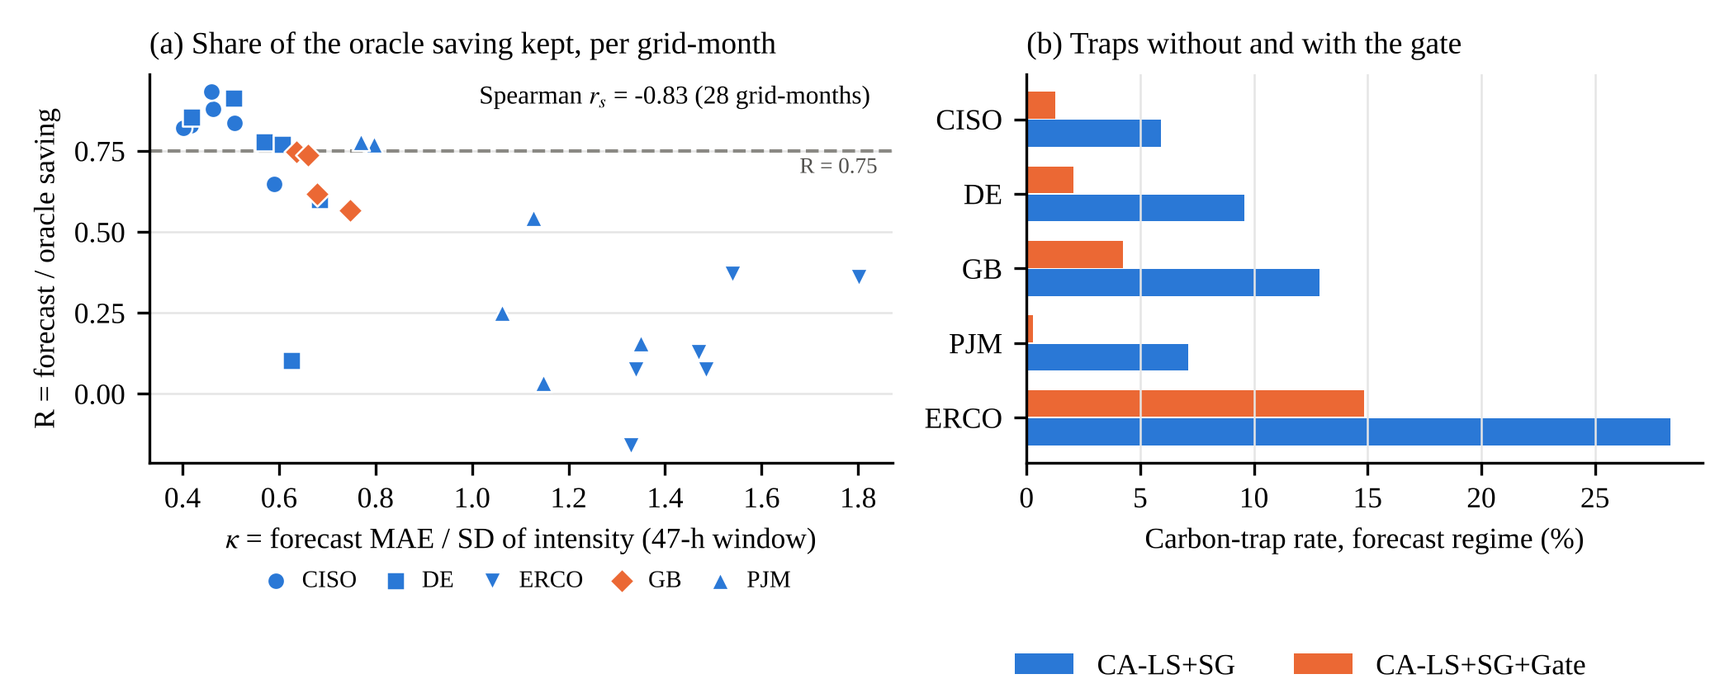
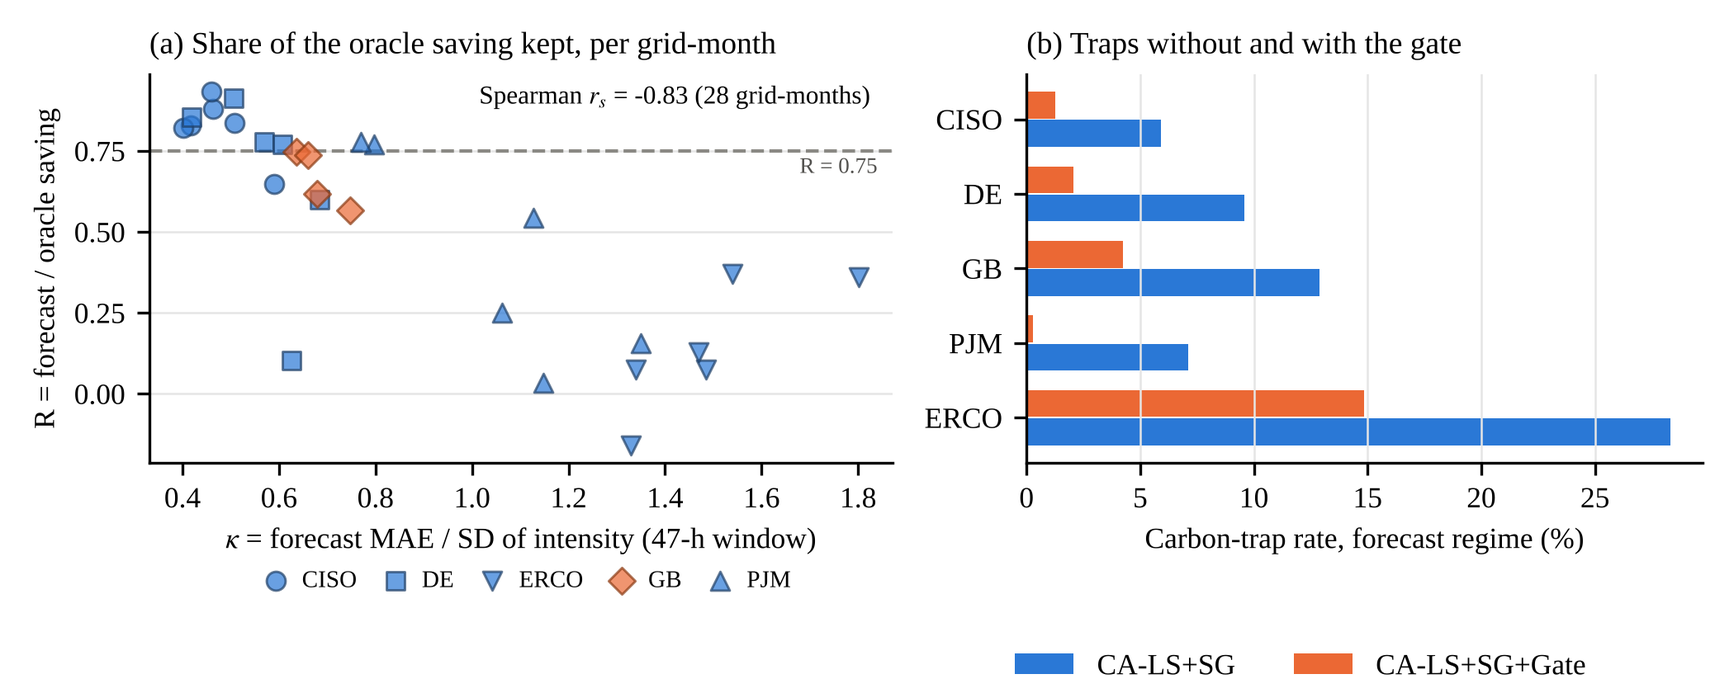
Minor review items: notation, units, CA-List details, pooling scope, Holm threshold, budget formula, Fig 8 overlap, references
Claude-Session: https://claude.ai/code/session_01NKcDFEPRSqVT7T48a7QW9h

diff --git a/manuscript/v2_content.js b/manuscript/v2_content.js
@@ -51,11 +51,11 @@ const t4 = smallTable([
   ["GB", "H2 traps (CA-LS)", "Lower bound > 2% at every f", "7.5% [5.5, 9.7] at f = 1.2; 13.2–15.9% at f ≥ 1.5", "Supported", "Holds"],
   ["GB", "H3 synthetic overstates saving", "Lower bound of difference > 0", "+0.68 pp [−0.09, 1.48]", "Not supported", "—"],
   ["GB", "H4 gate", "Trap difference < 0; retention ≥ 0.5", "−8.65 pp [−10.81, −6.62]; 0.84 [0.77, 0.92]", "Supported", "Holds"],
-  ["GB", "H5 CA-List / CaWoSched", "H1 and H2 criteria", "R = 0.68 [0.61, 0.74] / 0.73 [0.67, 0.78]; traps 6.5% [4.7, 8.5] / 7.6% [5.3, 9.9] at f = 1.2, 12.6–16.0% / 12.0–14.0% at f ≥ 1.5", "Met / H2 only", "CA-List: not by week; not with Holm"],
+  ["GB", "H5 CA-List / CaWoSched", "H1 and H2 criteria", "R = 0.68 [0.61, 0.74] / 0.73 [0.67, 0.78]; traps 6.5% [4.7, 8.5] / 7.6% [5.3, 9.9] at f = 1.2, 12.6–16.0% / 12.0–14.0% at f ≥ 1.5", "Supported / H2 only", "CA-List: not by week; not with Holm"],
   ["4 grids", "E1 relative loss", "Upper bound of R < 0.75", "R = 0.66 [0.60, 0.72]", "Supported", "Holds"],
   ["4 grids", "E2 traps", "Lower bound > 2% at every f", "6.4% [4.8, 8.2] to 16.4%", "Supported", "Holds"],
   ["4 grids", "E3 gate", "Trap difference < 0; retention ≥ 0.5", "−8.1 pp [−9.8, −6.5]; 0.87 [0.82, 0.93]", "Supported", "Holds"],
-  ["4 grids", "E4 misses vs HEFT; gate", "Lower bound > 10 pp at every f; gated − ungated < 0", "+27.6 to +43.4 pp; −21.5 pp [−23.1, −19.8]", "Supported", "Holds"],
+  ["4 grids", "E4a misses vs HEFT; E4b gate", "E4a: lower bound > 10 pp at every f; E4b: gated − ungated < 0", "+27.6 to +43.4 pp; −21.5 pp [−23.1, −19.8]", "Supported", "Holds"],
   ["Hetero.", "G1 relative loss", "Upper bound of R < 0.75", "R = 0.85 [0.80, 0.90]", "Not supported", "—"],
   ["Hetero.", "G2 traps", "Lower bound > 2% at every f", "1.6% [0.6, 2.8] at f = 1.2; 4.3–5.4% at f ≥ 1.5", "Not supported", "—"],
   ["Hetero.", "G3 gate", "Trap difference < 0; retention ≥ 0.5", "−2.2 pp [−3.8, −1.0]; 1.06 [1.02, 1.09]", "Supported", "Holds (Holm p < 0.001)"],
@@ -68,7 +68,7 @@ const tn = smallTable([
   ["G = (V, E); dᵢ", "Workflow DAG; nominal duration of task i (min)"],
   ["P; p", "Number of machines; busy power per machine (kW)"],
   ["M; D; f", "HEFT makespan; deadline D = round(f·M); deadline factor"],
-  ["t₀; s; s^H", "Submission time; a plan (start times); the HEFT plan"],
+  ["t₀; s; s^{H}", "Submission time; a plan (start times); the HEFT plan"],
   ["I(t); Î(t)", "Realised carbon intensity; intensity used for planning"],
   ["F; A", "Forecast and realised intensity of a window; F̄, Ā: means over a task's duration"],
   ["C(s); S(s)", "Realised emissions of plan s; saving relative to HEFT"],
@@ -144,11 +144,11 @@ const model = [
   H2("3.1 Workflows, platform and deadlines"),
   P("A workflow is a DAG G = (V, E) of tasks with precedence constraints; task i has a duration dᵢ in minutes. In the main study the platform is a dedicated cluster of P = 8 identical machines. Each runs one task at a time and draws a constant busy power p = 0.2 kW; data-transfer time is ignored. On this platform HEFT reduces to list scheduling by bottom level, which we still call HEFT for consistency with the literature. Section 5.5 replaces the platform with a heterogeneous one with idle power. A workflow is submitted at time t₀ and must finish within a deadline D = round(f · M) measured from t₀, where M is the HEFT makespan and f ∈ {1.2, 1.5, 2.0, 3.0} is the deadline factor [[cite: abrishami_deadline-constrained_2013]] [[cite: rodriguez_deadline_2014]]. A plan assigns a start time sᵢ to every task, at one-minute resolution. It is feasible if precedence holds, at most P tasks run at once and every task finishes by D."),
   H2("3.2 Carbon cost, saving and traps"),
-  P("Let I(t) be the realised average carbon intensity (gCO₂/kWh), published in 30-minute windows. The operational emissions of a plan s, with p in kW and time in hours, are"),
-  MEQ([mr("C(s)=p"), msum([mr("i∈V")], [integ([sub([mr("s")], [mr("i")])], [sub([mr("s")], [mr("i")]), mr("+"), sub([mr("d")], [mr("i")])], [mr("I"), rb([sub([mr("t")], [mr("0")]), mr("+t")]), mr(" dt")])])], 1),
-  P("On the homogeneous platform idle power is not attributed; Section 7.4 discusses this assumption. The saving of a plan is measured against the HEFT plan s^H on the same instance and submission, always with the realised intensity:"),
+  P("Let I(t) be the realised average carbon intensity (gCO₂/kWh), published in 30-minute windows. The operational emissions of a plan s, with p in kW, I in gCO₂/kWh and t in minutes (hence the factor 1/60), are"),
+  MEQ([mr("C(s)="), frac([mr("p")], [mr("60")]), msum([mr("i∈V")], [integ([sub([mr("s")], [mr("i")])], [sub([mr("s")], [mr("i")]), mr("+"), sub([mr("d")], [mr("i")])], [mr("I"), rb([sub([mr("t")], [mr("0")]), mr("+t")]), mr(" dt")])])], 1),
+  P("On the homogeneous platform idle power is not attributed; Section 7.4 discusses this assumption. The saving of a plan is measured against the HEFT plan s^{H} on the same instance and submission, always with the realised intensity:"),
   MEQ([mr("S(s)=1−"), frac([mr("C(s)")], [mr("C("), sup([mr("s")], [mr("H")]), mr(")")])], 2),
-  P("A run is a **carbon trap** if C(s) > 1.01 · C(s^H). The 1% margin excludes ties and rounding; we also report thresholds of 0%, 2% and 5% and the expected excess emission. Traps matter even when the mean saving is positive: a carbon-aware service that makes some jobs dirtier than the carbon-agnostic default breaks its promise to the users of those jobs. We therefore treat the trap rate as a measure of tail risk alongside the mean saving. Fig. 2 illustrates how a trap arises. The **relative loss** of a scheduler is"),
+  P("A run is a **carbon trap** if C(s) > 1.01 · C(s^{H}). The 1% margin excludes ties and rounding; we also report thresholds of 0%, 2% and 5% and the expected excess emission. Traps matter even when the mean saving is positive: a carbon-aware service that makes some jobs dirtier than the carbon-agnostic default breaks its promise to the users of those jobs. We therefore treat the trap rate as a measure of tail risk alongside the mean saving. Fig. 2 illustrates how a trap arises. The **relative loss** of a scheduler is"),
   MEQ([mr("R="), frac([mr("E"), sb([mr("S | forecast, f≥1.5")])], [mr("E"), sb([mr("S | oracle, f≥1.5")])])], 3),
   P("the share of the oracle saving that survives forecasts, computed as a ratio of means over runs with f ≥ 1.5 (at f = 1.2 the savings are small and the ratio unstable). We also report R per f, the absolute loss in percentage points and an emission-weighted ratio."),
   ...figure("fig1_concept.png", 600, 242,
@@ -183,8 +183,8 @@ const scheds = [
   H1("4. Schedulers and the difference-error gate"),
   P("All schedulers share one simulator, so differences between them come from their decisions."),
   H2("4.1 Reference and carbon-aware schedulers"),
-  P("**HEFT** orders tasks by decreasing bottom level and starts each as early as precedence and capacity allow [[cite: topcuoglu_performance-effective_2002]]. **Shift** keeps the HEFT plan and moves it as a whole by the offset δ ∈ [0, D − M] (one-minute steps) with the lowest planned cost; δ = 0 wins ties. **CA-List** visits tasks in HEFT order; for each it finds the earliest feasible start a and the latest start LSTᵢ = D − blᵢ, where blᵢ is the bottom level including dᵢ. Among the starts in [a, LSTᵢ] at which a machine is free, it takes the one with the lowest planned cost, and defers only if that start is strictly cheaper than a. Because LST ignores capacity, a plan can occasionally overrun D. CA-List is then re-run with a tighter internal deadline found by bisection over [M, D] (six steps), and HEFT is used if no feasible plan is found. **CA-LS** adds 2|V| local-search moves to the CA-List plan; each moves a random task to the cheapest start allowed by its predecessors, successors, capacity and D, earlier or later than its current start. CA-LS is the primary scheduler."),
-  P("We also run the official code of the two closest published schedulers without algorithmic changes: **CaWoSched** [[cite: schweisgut_carbon-aware_2025]], with the HEFT mapping and the better of its slackR-LS and pressR-LS variants, and **CWM** [[cite: schweisgut_carbon-aware_2026]], local-search variant. Both minimise brown energy above a green power budget. We map intensity to a budget by inverting and rescaling it over the windows up to D, from the total idle power in the dirtiest window to a fraction frac of the dynamic power in the cleanest. We used frac = 1.0, which gave both tools their best oracle saving on development data; the original authors use 0.2–0.4, which we also test (Section 6.7). We report these tools on emissions and on their native objective, the brown energy B(s) = Σₜ max(0, power(s, t) − budget(t)) computed with the budget derived from the realised intensity. Adapter details are in Appendix A."),
+  P("**HEFT** orders tasks by decreasing bottom level and starts each as early as precedence and capacity allow [[cite: topcuoglu_performance-effective_2002]]. **Shift** keeps the HEFT plan and moves it as a whole by the offset δ ∈ [0, D − M] (one-minute steps) with the lowest planned cost; δ = 0 wins ties. **CA-List** visits tasks in HEFT order; for each it finds the earliest feasible start a and the latest start LSTᵢ = D − blᵢ, where blᵢ is the bottom level including dᵢ. Among the starts in [a, LSTᵢ] at which a machine is free, it takes the one with the lowest planned cost, and defers only if that start is strictly cheaper than a; if a > LSTᵢ the interval is empty and the task starts at a. Because LST ignores capacity, a plan can occasionally overrun D. CA-List is then re-run with a tighter internal deadline found by bisection over [M, D] (six steps); the bisection keeps the largest internal deadline whose plan meets D, not the cheapest plan, since list scheduling need not be monotone in the internal deadline. HEFT is used if no step yields a feasible plan. **CA-LS** adds 2|V| local-search moves to whatever plan CA-List returns, including the HEFT fallback; each moves a random task to the cheapest start allowed by its predecessors, successors, capacity and D, earlier or later than its current start. CA-LS is the primary scheduler."),
+  P("We also run the official code of the two closest published schedulers without algorithmic changes: **CaWoSched** [[cite: schweisgut_carbon-aware_2025]], with the HEFT mapping and the better of its slackR-LS and pressR-LS variants, and **CWM** [[cite: schweisgut_carbon-aware_2026]], local-search variant. Both minimise brown energy above a green power budget. We map intensity to a budget by a linear min–max inversion over the windows up to D, from the total idle power in the dirtiest window to the total idle power plus a fraction frac of the total dynamic power in the cleanest (Appendix A gives the formula). We used frac = 1.0, which gave both tools their best oracle saving on development data; the original authors use 0.2–0.4, which we also test (Section 6.7). We report these tools on emissions and on their native objective, the brown energy B(s) = Σₜ max(0, power(s, t) − budget(t)) Δt over one-minute steps t (Δt = 1 min, so B is in power-minutes), computed with the budget derived from the realised intensity and evaluated on the final, safeguarded plan. Adapter details are in Appendix A."),
   H2("4.2 HEFT safeguard"),
   P("Every carbon-aware scheduler is wrapped in the same safeguard: its plan is kept only if it is cheaper than the HEFT plan on the planning signal. Under the oracle this makes traps impossible, which we check. Under forecasts it cannot prevent traps, because it trusts the signal that misleads the scheduler. Traps under forecasts are therefore attributable to forecast error alone. Under the oracle the safeguard kept the HEFT plan in 24% of CA-LS runs (30% at f = 1.2, 14% at f = 3.0), where local search found no cheaper plan; these runs count as zero saving."),
   H2("4.3 The difference-error gate"),
@@ -221,7 +221,7 @@ const design = [
   H2("5.6 Robustness study"),
   P("The main results raise four further questions: whether re-planning on newer forecasts removes the loss, whether the deadline result depends on the executor, whether reserving slack helps, and whether simpler gates do as well. A fourth plan, sealed before any of its variants was run on the confirmatory data, answers them on seeds 10 and 11 of the main study (1,200 jobs). The questions are: (Q1) receding-horizon re-planning [[cite: zhang_exploring_2023]] every 2 h on the newest vintage, for CA-LS and Shift with and without the gate; (Q2) the reactive executor; (Q3) a slack reserve, planning CA-LS against D′ = M + ρ(D − M) with ρ ∈ {0.75, 0.5}; (Q4) alternative gates; (Q5) the empirical coverage of the gate; and (Q6) CaWoSched and CWM with the authors' budget band. The plan states in advance how each result will be read. Because the confirmatory data had been analysed before, we report these as robustness analyses, not confirmatory tests. After the first run we found a units error that kept the re-planning variants from seeing newer forecasts; it is logged with the plan, the affected variants were re-run, and only the corrected results are reported."),
   H2("5.7 Statistical analysis"),
-  P("Runs that share a submission time share a forecast and are correlated. The sealed analyses use a cluster bootstrap over submission times [[cite: cameron_bootstrap-based_2008]] (region × submission in the extensions; 2,000 resamples, fixed seed, percentile intervals). Because submissions on nearby days share weather regimes, we also report, post hoc, intervals from a bootstrap over calendar days and over ISO weeks, and Holm-adjusted one-sided p-values. The main study has 147 submission times, 78 days and 14 weeks. In the extension every cluster is crossed with the grid (region × submission, region × day, region × week), giving 236, 208 and 92 clusters; the extension data lie within one calendar year, as do the GB data. With 14 clusters the week bootstrap is coarse, and percentile cluster bootstraps with so few clusters can under-cover [[cite: cameron_bootstrap-based_2008]]; we therefore use it only as a sensitivity check, never for a verdict. A one-sided p-value is the share of bootstrap replicates on the null side of the sealed threshold, for example the share with R* ≥ 0.75 for H1. Composite hypotheses are intersection–union tests and take the largest p-value of their parts: H2 and E2 over the four deadline factors, H4 and E3 over the trap difference (null: ≥ 0) and the retained saving (null: < 0.5), and H5, separately for each scheduler, over its H1 part and the four f of its H2 part. Holm's step-down procedure at a one-sided family level of 0.025 is applied within the main study to m = 6 tests (H1, H2, H3, H4, H5 for CA-List and H5 for CaWoSched) within the extension to m = 4 (E1–E4; E4 over the four f of its miss gap and the gate's effect on misses), and within the platform study to m = 5 (G1–G5), whose 80 submissions fall on 76 region × days and 56 region × weeks. The post-hoc script draws its own resamples, so its submission-time intervals can differ from the sealed ones in the second decimal (for H1, [0.61, 0.74] against [0.62, 0.74]). Means are pooled over workflows, makespan targets and seeds."),
+  P("Runs that share a submission time share a forecast and are correlated. The sealed analyses use a cluster bootstrap over submission times [[cite: cameron_bootstrap-based_2008]] (region × submission in the extensions; 2,000 resamples, fixed seed, percentile intervals). Because submissions on nearby days share weather regimes, we also report, post hoc, intervals from a bootstrap over calendar days and over ISO weeks, and Holm-adjusted one-sided p-values. The main study has 147 submission times, 78 days and 14 weeks. In the extension every cluster is crossed with the grid (region × submission, region × day, region × week), giving 236, 208 and 92 clusters; the extension data lie within one calendar year, as do the GB data. With 14 clusters the week bootstrap is coarse, and percentile cluster bootstraps with so few clusters can under-cover [[cite: cameron_bootstrap-based_2008]]; we therefore use it only as a sensitivity check, never for a verdict. A one-sided p-value is the share of bootstrap replicates on the null side of the sealed threshold, for example the share with R* ≥ 0.75 for H1. Composite hypotheses are intersection–union tests and take the largest p-value of their parts: H2 and E2 over the four deadline factors, H4 and E3 over the trap difference (null: ≥ 0) and the retained saving (null: < 0.5), and H5, separately for each scheduler, over its H1 part and the four f of its H2 part. Holm's step-down procedure at a one-sided family level of 0.025 is applied within the main study to m = 6 tests (H1, H2, H3, H4, H5 for CA-List and H5 for CaWoSched) within the extension to m = 4 (E1–E4; E4 over the four f of its miss gap and the gate's effect on misses), and within the platform study to m = 5 (G1–G5), whose 80 submissions fall on 76 region × days and 56 region × weeks. The post-hoc script draws its own resamples, so its submission-time intervals can differ from the sealed ones in the second decimal (for H1, [0.61, 0.74] against [0.62, 0.74]). Means are pooled over workflows, makespan targets and seeds. Ratios of saving to the oracle saving (R, H1, E1, G1, H5) and the H3 difference pool f ≥ 1.5, as in Eq. (3); trap rates, the gate's trap difference and retained saving (H4, E3, G3), miss rates, expected excess emission, and all points of Figs. 6a and 7 pool all four f unless a value is given per f."),
 ];
 
 // ---------- 6 Results ----------
@@ -232,7 +232,7 @@ const results = [
   t4,
 
   H2("6.1 Issued forecasts lose about a third of the oracle saving"),
-  P("Fig. 4 shows the mean saving relative to HEFT under the three regimes. With oracle intensity CA-LS saved 3.2% at f = 1.2 and 21.2% at f = 3.0; with issued forecasts it saved 2.1% and 14.4%. Pooled over f ≥ 1.5, R = 0.68 [0.62, 0.74], below the sealed threshold of 0.75 (H1). The ratio was similar at every f (0.65, 0.67, 0.68 and 0.68 at f = 1.2–3.0), so the absolute loss grew with slack, from 1.1 to 6.7 percentage points. Weighting by emissions rather than averaging per run gives ratios of 0.71–0.78. The verdict is the least robust of the sealed results. Its upper bound is 0.745 when clustering by day, 0.755 when clustering by week, and the Holm-adjusted p-value is 0.04. The estimate itself is stable. The independent four-grid extension reproduced it pooled over grids (R = 0.66 [0.60, 0.72]; upper bound 0.74 by week; Holm p = 0.01), although R differed widely between grids (0.19–0.85; Section 6.6). The loss was also similar across workflows (R = 0.62–0.72, Supplementary Table S1) despite very different structures, and the development year shows it in every season (R = 0.50–0.69, Supplementary Table S2). Whole-workflow Shift did as well as CA-LS under issued forecasts: its saving was within 0.5 points of CA-LS at every f, it kept a larger share of its own oracle saving (R = 0.73) and it missed fewer deadlines (Section 6.5)."),
+  P("Fig. 4 shows the mean saving relative to HEFT under the three regimes. With oracle intensity CA-LS saved 3.2% at f = 1.2 and 21.2% at f = 3.0; with issued forecasts it saved 2.1% and 14.4%. Pooled over f ≥ 1.5, R = 0.68 [0.62, 0.74], below the sealed threshold of 0.75 (H1). The ratio was similar at every f (0.65, 0.67, 0.68 and 0.68 at f = 1.2–3.0), so the absolute loss grew with slack, from 1.1 to 6.7 percentage points. Weighting by emissions rather than averaging per run gives ratios of 0.71–0.78. The verdict is the least robust of the sealed results. Its upper bound is 0.745 when clustering by day and 0.755 when clustering by week, and its Holm-adjusted one-sided p-value with submission-time clusters is 0.036, above the one-sided family level of 0.025 that matches the 95% intervals. The estimate itself is stable. The independent four-grid extension reproduced it pooled over grids (R = 0.66 [0.60, 0.72]; upper bound 0.74 by week; Holm p = 0.01), although R differed widely between grids (0.19–0.85; Section 6.6). The loss was also similar across workflows (R = 0.62–0.72, Supplementary Table S1) despite very different structures, and the development year shows it in every season (R = 0.50–0.69, Supplementary Table S2). Whole-workflow Shift did as well as CA-LS under issued forecasts: its saving was within 0.5 points of CA-LS at every f, it kept a larger share of its own oracle saving (R = 0.73) and it missed fewer deadlines (Section 6.5)."),
   ...figure("fig4_saving_vs_slack.png", 600, 205,
     "**Fig. 4.** Mean carbon saving relative to HEFT versus deadline factor f for (a) CA-LS with safeguard, (b) the official CaWoSched code with safeguard and (c) whole-workflow shift, under oracle intensity, synthetic i.i.d. noise (σ = 0.20) and issued forecasts (GB, confirmatory). Whiskers: 95% cluster-bootstrap intervals. CaWoSched was not run with synthetic noise, because its runs are the most expensive and synthetic noise was compared only for CA-LS (H3)."),
 
@@ -244,7 +244,7 @@ const results = [
   ...rev63,
 
   H2("6.4 The difference-error gate"),
-  P("The gate cut the trap rate of CA-LS by 8.65 percentage points [−10.81, −6.62] while keeping 84% [77%, 92%] of the ungated saving (H4; robust to all clusterings). Expected excess emission from traps fell from 1.4% to 0.35% of HEFT's emissions. Its calibrated bounds held as intended: on the confirmatory data they covered 89.8% of the realised difference errors of the vintages actually used, against a nominal 90%, with 88.7–90.8% in every lag × horizon bin (median per submission 90.2%, 10th percentile 82%). Over task durations, as the schedulers apply them, coverage rose with the duration: 89.9% at 1 h, 92.2% at 4 h and 95.3% at 8 h (exploratory)."),
+  P("The gate cut the trap rate of CA-LS by 8.65 percentage points [−10.81, −6.62] while keeping 84% [77%, 92%] of the ungated saving (H4; robust to all clusterings). Expected excess emission from traps, pooled over all f, fell from 1.4% to 0.35% of HEFT's emissions. Its calibrated bounds held as intended: on the confirmatory data they covered 89.8% of the realised difference errors of the vintages actually used, against a nominal 90%, with 88.7–90.8% in every lag × horizon bin (median per submission 90.2%, 10th percentile 82%). Over task durations, as the schedulers apply them, coverage rose with the duration: 89.9% at 1 h, 92.2% at 4 h and 95.3% at 8 h (exploratory)."),
   ...rev64,
 
   ...rev65,
@@ -253,15 +253,15 @@ const results = [
   P("The four-grid extension (4,800 jobs) supported all four sealed hypotheses (Table 5). Pooled over grids, CA-LS kept R = 0.66 [0.60, 0.72] of its oracle saving under model forecasts; trap rates ranged from 6.4% at f = 1.2 to 16.4% at f = 3.0; the gate cut traps by 8.1 percentage points while keeping 87% of the saving; and with runtime noise CA-LS missed deadlines 27.6–43.4 points more often than HEFT, a gap the gate reduced by 21.5 points. All verdicts survive clustering by day and week and the Holm correction."),
   P("The pooled result hides a large spread. R was 0.85 [0.81, 0.89] in CISO, 0.76 [0.67, 0.84] in DE, 0.52 [0.41, 0.62] in PJM and 0.19 [−0.05, 0.36] in ERCO, where traps reached 15.5–35.3% (secondary analyses); the unweighted mean over grids is 0.58. Because the pooled R is a ratio of means, it gives more weight to grids with large savings. What explains the spread? In an exploratory analysis at the resolution of grid-months (28 points including GB, some with only six submissions), the ratio κ of forecast error to short-term variability (Eq. 4) was strongly associated with R (Spearman rₛ = −0.83 [−0.92, −0.64]; Fig. 8a), and so was a rank-based measure of forecast quality (1 − Kendall τ: −0.78). The relative error was only weakly associated (WAPE: −0.10 [−0.48, 0.26]). Two caveats apply. Most of the association is between grids: within grids it was strong in GB, DE and PJM (rₛ = −0.89 to −1.0), absent in CISO and reversed in ERCO, and the pooled within-grid correlation was −0.29. And because variability also raises the oracle saving, part of the association is mechanical; controlling for the standard deviation of intensity leaves rₛ = −0.73 [−0.86, −0.43] for κ and −0.42 [−0.71, 0.02] for WAPE. PJM, for example, has the most accurate forecasts in relative terms (WAPE 3–6%) but a flat intensity profile, so even small errors mis-rank its windows. Grids with κ near or above one kept little of the oracle saving. Fig. 8b shows that the gate reduced traps on every grid."),
   ...figure("fig7_regions.png", 600, 240,
-    "**Fig. 8.** Forecast loss across grids (exploratory). (a) Share of the oracle saving kept by CA-LS with safeguard (f ≥ 1.5) per grid-month, against κ, the ratio of forecast MAE (0–47 h) to the standard deviation of carbon intensity within the same 47-h windows; GB uses issued NESO vintages (2026), the other grids CarbonCast model forecasts (2021). (b) Trap rate under forecasts without and with the gate, all f pooled."),
-  P("The official baselines told the same story on their own objective. Under the oracle, CaWoSched reduced brown energy above the green budget by 39–44% relative to HEFT and CWM by about 22%; with model forecasts these reductions fell to 28–29% and 17–18% on CISO and DE, 12% and 7% on PJM, and −13% and −7% on ERCO. Shift stayed within 0.3 percentage points of CA-LS on every grid."),
+    "**Fig. 8.** Forecast loss across grids (exploratory). (a) Share of the oracle saving kept by CA-LS with safeguard (f ≥ 1.5) per grid-month, against κ, the ratio of forecast MAE (0–47 h) to the standard deviation of carbon intensity within the same 47-h windows; GB uses issued NESO vintages (2026), the other grids CarbonCast model forecasts (2021). All 28 grid-months are plotted, with semi-transparent markers where they overlap; the lowest is ERCO in September 2021 (R = −0.16). (b) Trap rate under forecasts without and with the gate, all f pooled."),
+  P("The official baselines told the same story on their own objective. Under the oracle, safeguarded CaWoSched reduced brown energy above the green budget by 39–44% relative to HEFT and safeguarded CWM by about 22% (the safeguard compares planned emissions, Section 4.2; brown energy is then evaluated on the final plan); with model forecasts these reductions fell to 28–29% and 17–18% on CISO and DE, 12% and 7% on PJM, and −13% and −7% on ERCO. Shift stayed within 0.3 percentage points of CA-LS on every grid."),
 
   H2("6.7 Platform sensitivity and the official schedulers"),
   P("Fig. 9 summarises this section. On the heterogeneous platform with idle power (1,600 jobs), two of the five sealed hypotheses failed. CA-LS kept R = 0.85 [0.80, 0.90] of its oracle emission saving (G1), and its trap rate was 1.6% [0.6, 2.8] at f = 1.2 and 4.3–5.4% at f ≥ 1.5, with lower bounds of 1.7–2.5% (G2). The gate still cut traps and here even raised the saving (G3; retention 1.06, so the deferrals it blocked had lost carbon on average), CWM kept only R = 0.32 [0.01, 0.57] of its oracle reduction in brown energy (G4), and carbon-aware plans missed deadlines 49.9–76.0 points more often than HEFT (G5). The three supported verdicts held with clusters of calendar days and weeks and after Holm's correction (Table 5); the widest interval, that of G4, had an upper bound of 0.58 by week."),
   P("The failures have a clear cause. On this platform much of the saving comes from placing work on the more efficient machine type, which needs no forecast. Planned on a flat carbon signal, CA-LS saved 6.05% on a subset of 800 runs per regime, against 7.00% with the oracle and 6.18% with model forecasts (exploratory). Carbon timing therefore added about one percentage point, and forecasts kept roughly a seventh of it. In DE and PJM, planning on a flat signal saved as much as planning on the oracle (Fig. 9a), so there the forecast had almost nothing to add. CaWoSched, which keeps the HEFT mapping and can only re-time work, kept R = 0.71, with trap rates of 2.3–23.4% across grids, much as on the homogeneous platform (exploratory). The ratio R thus depends on how much of a scheduler's saving comes from timing, and on this platform the timing part was lost even more badly than on the homogeneous one."),
   P("With our intensity-derived budget, CWM did not reduce emissions on either platform: on the homogeneous platform its safeguarded emission saving was 0.4–3.5% under model forecasts (0.7–3.7% under the oracle), and on its own processor types raw CWM saved −1.9% to +0.3% under the oracle. Its native objective did improve (22% under the oracle on the homogeneous platform), and the 69% reported by its authors is a reduction of that objective under synthetic budgets. The gap is therefore between objectives: brown energy above a budget derived from intensity does not track emissions computed from intensity, at least with our budget mapping (Appendix A). «Q6_TEXT»"),
   ...figure("fig_platform.png", 600, 219,
-    "**Fig. 9.** (a) Heterogeneous platform: emission saving of CA-LS relative to HEFT when planned on a flat signal (energy-aware mapping only), on the oracle and on model forecasts, by grid (exploratory subset; 400 runs per grid and regime). (b) Official schedulers on the homogeneous platform (generality extension, four grids pooled): reduction of their native objective, brown energy above the green budget, and of emissions, under the oracle and model forecasts."),
+    "**Fig. 9.** (a) Heterogeneous platform: emission saving of CA-LS relative to HEFT when planned on a flat signal (energy-aware mapping only), on the oracle and on model forecasts, by grid (exploratory subset; 400 runs per grid and regime). (b) Safeguarded official schedulers on the homogeneous platform (generality extension, four grids pooled; the safeguard compares planned emissions with HEFT's): reduction of their native objective, brown energy above the green budget, and of emissions, under the oracle and model forecasts."),
   H2("6.8 Scheduling overhead"),
   P("All schedulers are fast enough to run at submission time. On one core (Python implementation; 60 runs per scheduler over the 20 workflow instances of seed 10, f = 2.0), HEFT took a median of 0.012 s, Shift 0.005 s, CA-List 0.031 s and CA-LS 0.070 s (95th percentile 0.24 s). Calibrating the gate from seven days of vintages took a median of 0.23 s (95th percentile 0.81 s) and is needed once per submission, and gated CA-LS took 0.12 s. These times are negligible compared with workflows that run for hours."),
 ];
@@ -335,7 +335,7 @@ caption("**Table S4.** Alternative gates for CA-LS with safeguard (robustness st
 // ---------- Appendices ----------
 const appendices = [
   H1("Appendix A. Adapters for the official schedulers"),
-  P("CaWoSched (KIT-EAE/CaWoSched, commit dfc8e49) and CWM (KIT-EAE/CWM, commit 50e9ef5) were built from source. CWM needed two non-algorithmic changes: read-only accessors that print the final schedule, and a missing standard-library include for GCC 13. CaWoSched's validity check rejects edges without data, so every cross-machine edge carries a one-minute transfer inside CaWoSched; this makes its plans slightly conservative in our transfer-free simulator. Intensity over the windows up to D is inverted and rescaled to a budget between the total idle power and the idle power plus frac × the dynamic power. On development data (five workflows, two targets, six submissions, two deadline factors; n = 120 per cell) the full range (frac = 1.0) gave CaWoSched an oracle emission saving of 4.85%, against 2.34–2.56% for frac 0.2–0.4. On the heterogeneous platform (development data, raw CWM) frac 1.0 gave −0.1% against −1.4% to −1.9%. Every schedule returned by either tool was checked for precedence, capacity and the deadline."),
+  P("CaWoSched (KIT-EAE/CaWoSched, commit dfc8e49) and CWM (KIT-EAE/CWM, commit 50e9ef5) were built from source. CWM needed two non-algorithmic changes: read-only accessors that print the final schedule, and a missing standard-library include for GCC 13. CaWoSched's validity check rejects edges without data, so every cross-machine edge carries a one-minute transfer inside CaWoSched; this makes its plans slightly conservative in our transfer-free simulator. Intensity over the windows up to D is inverted and rescaled to a budget between the total idle power and the idle power plus frac × the dynamic power: for each 30-minute window k ≤ ⌈D/30⌉, budget(k) = Σₘ p₀(m) + frac · Σₘ (p(m) − p₀(m)) · (Î_max − Î(k)) / (Î_max − Î_min), where Î_max and Î_min are the largest and smallest planning intensities over those windows. On the homogeneous platform p₀ = 0 and Σₘ (p(m) − p₀(m)) = P · p; on the heterogeneous one the sums run over the four slow and four fast machines (idle 4 · 1 + 4 · 2 = 12 units, dynamic 4 · 9 + 4 · 13 = 88 units). If Î_max = Î_min the fraction is set to 1, giving the full budget in every window. Budgets are rounded to integers after scaling powers by 10, because the tools take integer budgets. On development data (five workflows, two targets, six submissions, two deadline factors; n = 120 per cell) the full range (frac = 1.0) gave CaWoSched an oracle emission saving of 4.85%, against 2.34–2.56% for frac 0.2–0.4. On the heterogeneous platform (development data, raw CWM) frac 1.0 gave −0.1% against −1.4% to −1.9%. Every schedule returned by either tool was checked for precedence, capacity and the deadline."),
   H1("Appendix B. Heterogeneous platform"),
   P("With machines m of busy power p(m), idle power p₀(m) and speed v(m), a task of work w runs ⌈w / v(m)⌉ minutes. All machines stay on until W = max(D, makespan), so emissions are Σᵢ (p(mᵢ) − p₀(mᵢ)) ∫ I dt over each task plus Σₘ p₀(m) ∫₀ᵂ I dt. The second term is the same for all plans that finish by D, so schedulers optimise the marginal (busy − idle) cost. HEFT ranks tasks by upward rank with mean durations and places each on the machine with the earliest finish time, with insertion. CA-List and CA-LS consider all machines and start times. A placement (m, s) of task i has marginal energy E(m) = (p(m) − p₀(m)) · d(m), with d(m) = ⌈w / v(m)⌉, and planned cost E(m) · F̄(s, d(m)), where F̄(s, d) is the mean forecast over [s, s + d). On CWM's platform E is 9w power-minutes on a slow machine and about 6.5w on a fast one. The reference placement (m_{a}, a) is, in CA-List, the machine and start with the earliest finish given the partial plan (HEFT's choice) and, in CA-LS, the task's incumbent placement. The gate accepts the candidate (m_{b}, b) with the largest value of g = E(m_{a}) F̄(a, d(m_{a})) − E(m_{b}) F̄(b, d(m_{b})) − max(E(m_{a}), E(m_{b})) · q[bin(|b − a|), bin(h(a, b))], provided g > 0, and otherwise keeps the reference; h(a, b) uses d(m_{b}). A change of machine at the same start is not exempt: it has lag 0 and must clear the threshold of the 0–3 h bin. With equal energies the rule reduces to Algorithm 1 scaled by E. Proposition 1 does not carry over to changes of machine type. Writing F̄ₐ, Āₐ for means over d(m_{a}) and F̄_{b}, Ā_{b} for means over d(m_{b}), the decision error is (E(m_{a}) F̄ₐ − E(m_{b}) F̄_{b}) − (E(m_{a}) Āₐ − E(m_{b}) Ā_{b}) = E(m_{b}) e(a, b) + (E(m_{a}) − E(m_{b})) (F̄ₐ − Āₐ). When m_{a} and m_{b} have the same type the second term vanishes and the per-decision bound holds as on the homogeneous platform. When they differ, the level error F̄ₐ − Āₐ no longer cancels, even at lag 0, and nothing in the calibration bounds it. For such decisions the risk term is a heuristic penalty, and the gate's effect on this platform (G3) is an empirical finding, not a consequence of Proposition 1."),
   H1("Appendix C. Deviations from the sealed plans"),

diff --git a/manuscript/v2_revision.js b/manuscript/v2_revision.js
@@ -7,7 +7,7 @@ const rev64 = [
   P("«REV64B»"),
   P("«REV64C»"),
   ...figure("fig_frontier.png", 600, 245,
-    "**Fig. 6.** Carbon saving against the share of runs that are carbon traps. (a) Strategies on GB issued forecasts (robustness study, seeds 10–11, all f): the difference gate for α between 0.5 and 0.95, simpler gates, planning on an upper forecast quantile, re-planning, and whole-workflow shifting with and without the gate. Points towards the upper left are better. (b) The difference gate against two risk-controlled planners for α of 0.05, 0.10 and 0.20 (development data, pilot 2, 40 submissions; saving for f ≥ 1.5; exploratory). Intervals are given in Supplementary Table S4 and in the text."),
+    "**Fig. 6.** Carbon saving against the share of runs that are carbon traps. (a) Strategies on GB issued forecasts (robustness study, seeds 10–11, all f): the difference gate for α between 0.5 and 0.95, simpler gates, planning on an upper forecast quantile, re-planning, and whole-workflow shifting with and without the gate. Points towards the upper left are better. (b) The difference gate at α = 0.8, 0.9 and 0.95 against two risk-controlled planners at target trap risks of 0.05, 0.10 and 0.20 (a risk level, not the gate's quantile level α) (development data, pilot 2, 40 submissions; saving for f ≥ 1.5; exploratory). Intervals are given in Supplementary Table S4 and in the text."),
 ];
 
 const rev65 = [

diff --git a/manuscript/v2_helpers.js b/manuscript/v2_helpers.js
@@ -11,7 +11,7 @@ const FONT = "Times New Roman";
 function runs(text, size) {
   const z = size ? { size } : {};
   const out = [];
-  const re = /(\*\*[^*]+\*\*|~~[^~]+~~|\[\[[^\]]+\]\]|_\{[^}]+\})/g;
+  const re = /(\*\*[^*]+\*\*|~~[^~]+~~|\[\[[^\]]+\]\]|_\{[^}]+\}|\^\{[^}]+\})/g;
   let last = 0, m;
   while ((m = re.exec(text)) !== null) {
     if (m.index > last) out.push(new TextRun({ ...z, text: text.slice(last, m.index) }));
@@ -19,6 +19,7 @@ function runs(text, size) {
     if (t.startsWith("**")) out.push(new TextRun({ ...z, text: t.slice(2, -2), bold: true }));
     else if (t.startsWith("~~")) out.push(new TextRun({ ...z, text: t.slice(2, -2), italics: true }));
     else if (t.startsWith("_{")) out.push(new TextRun({ ...z, text: t.slice(2, -1), subScript: true }));
+    else if (t.startsWith("^{")) out.push(new TextRun({ ...z, text: t.slice(2, -1), superScript: true }));
     else out.push(new TextRun({ ...z, text: "[" + t.slice(2, -2).trim() + "]", highlight: "yellow" }));
     last = m.index + t.length;
   }

diff --git a/manuscript/postfix_math.py b/manuscript/postfix_math.py
@@ -1,0 +1,17 @@
+"""Post-process the built .docx: turn math runs 'F̄' / 'Ā' (base letter + macron) into proper OMML bar accents,
+so Word renders the overbar in equations. Usage: python3 postfix_math.py file.docx [...]"""
+import re, sys, zipfile, shutil, os
+ACC = '<m:acc><m:accPr><m:chr m:val="̄"/></m:accPr><m:e><m:r><m:t>{}</m:t></m:r></m:e></m:acc>'
+for f in sys.argv[1:]:
+    tmp = f + ".tmp"
+    with zipfile.ZipFile(f) as zin, zipfile.ZipFile(tmp, "w", zipfile.ZIP_DEFLATED) as zout:
+        for it in [i for i in zin.infolist() if not i.filename.endswith("/")]:
+            data = zin.read(it.filename)
+            if it.filename == "word/document.xml":
+                x = data.decode("utf8")
+                x, n1 = re.subn(r"<m:r><m:t(?: [^>]*)?>([A-Za-z])̄</m:t></m:r>", lambda m: ACC.format(m.group(1)), x)
+                x, n2 = re.subn(r"<m:r><m:t(?: [^>]*)?>Ā</m:t></m:r>", ACC.format("A"), x)
+                print(f, "accents:", n1 + n2)
+                data = x.encode("utf8")
+            zout.writestr(it, data)
+    shutil.move(tmp, f)

diff --git a/make_fig7.py b/make_fig7.py
@@ -16,7 +16,7 @@ from scipy.stats import spearmanr
 M = pd.read_csv("results/skill_by_month.csv")
 mk = {"CISO": "o", "DE": "s", "GB": "D", "PJM": "^", "ERCO": "v"}
 for reg, g in M.groupby("region"):
-    a.scatter(g.ratio, g.R, marker=mk[reg], s=26, color=ORANGE if reg == "GB" else BLUE, edgecolor="white", lw=0.6, label=reg, zorder=3)
+    a.scatter(g.ratio, g.R, marker=mk[reg], s=30, color=ORANGE if reg == "GB" else BLUE, alpha=0.7, edgecolor="#1f3f66" if reg != "GB" else "#8a3a12", lw=0.7, label=reg, zorder=3)
 rho = spearmanr(M.ratio, M.R)[0]
 a.text(0.97, 0.97, f"Spearman $r_s$ = {rho:.2f} ({len(M)} grid-months)", transform=a.transAxes, ha="right", va="top", fontsize=7.5)
 a.axhline(0.75, color=NEUTRAL, ls="--", lw=1)

diff --git a/manuscript/make_refs.py b/manuscript/make_refs.py
@@ -84,7 +84,7 @@ def fmt(e):
     note = clean(e.get("annote", ""))
     m = re.search(r"arXiv:\s*(\S+)", note)
     if m:
-        return f"{lead}{ti}, arXiv preprint arXiv:{re.sub(r'v\d+$', '', m.group(1))}, {y}."
+        aid = re.sub(r'v\d+$', '', m.group(1)); return f"{lead}{ti}, arXiv preprint arXiv:{aid}, {y}. https://arxiv.org/abs/{aid}."
     if "Official Journal" in note:
         return f"{lead}{ti}, Official Journal of the European Union, {y}." + doi
     return f"{lead}{ti}, {y}." + doi
